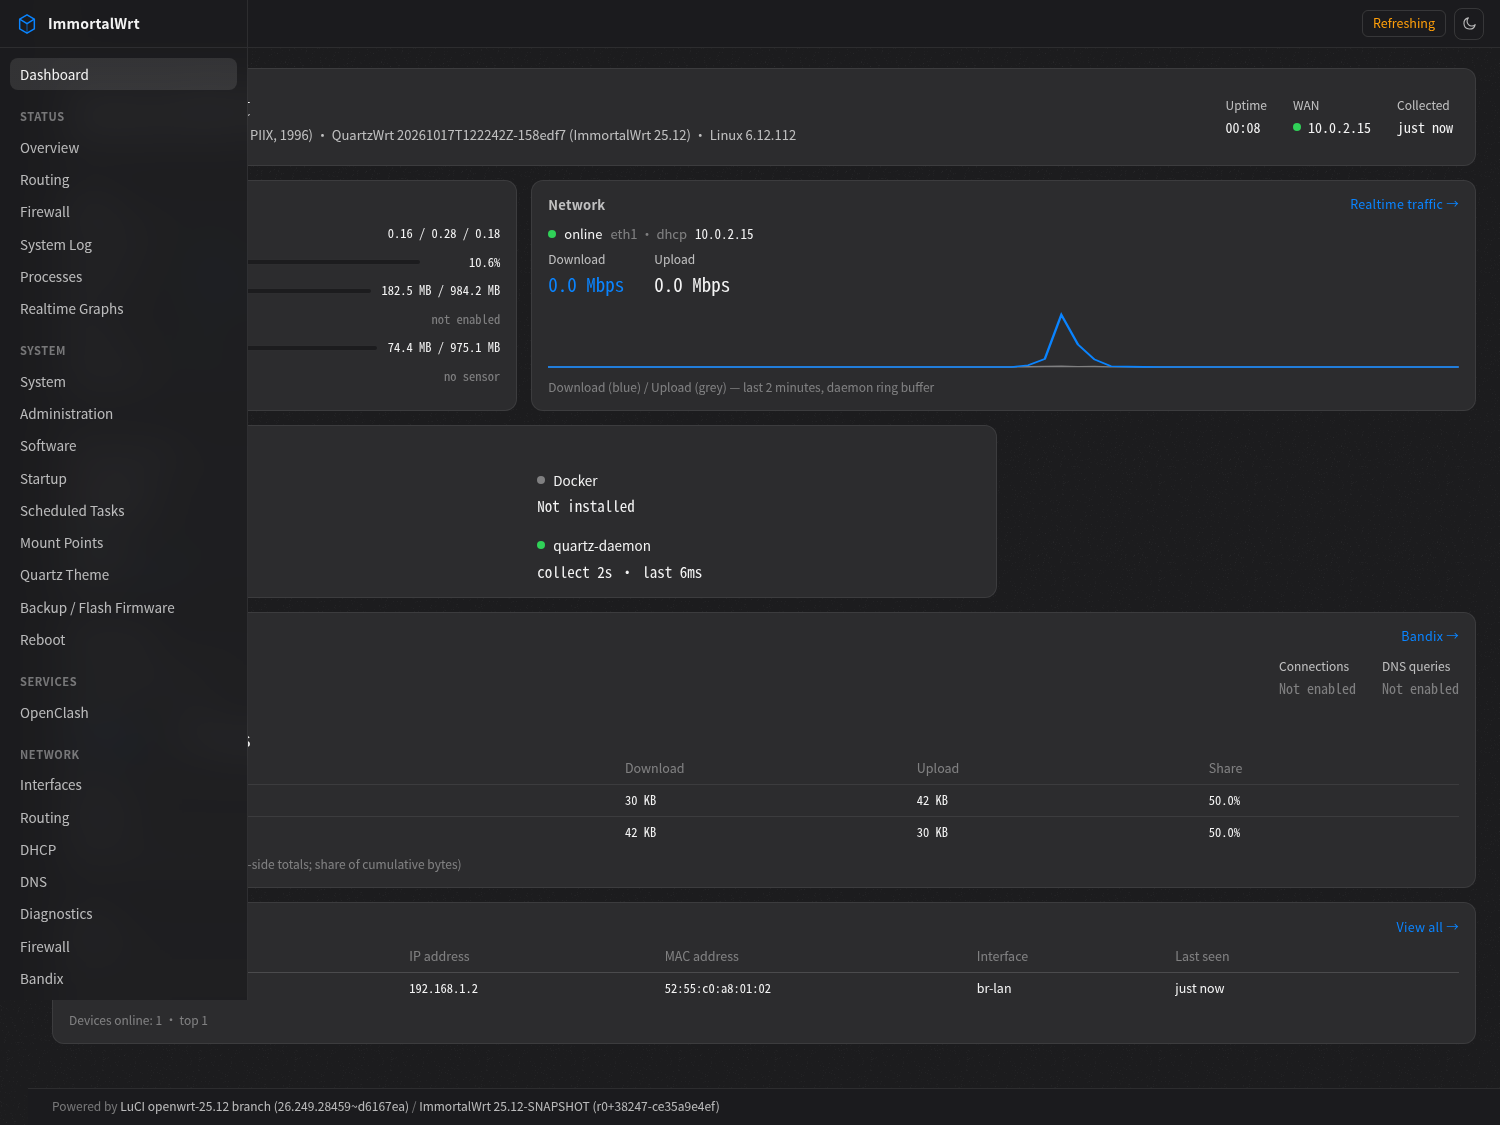
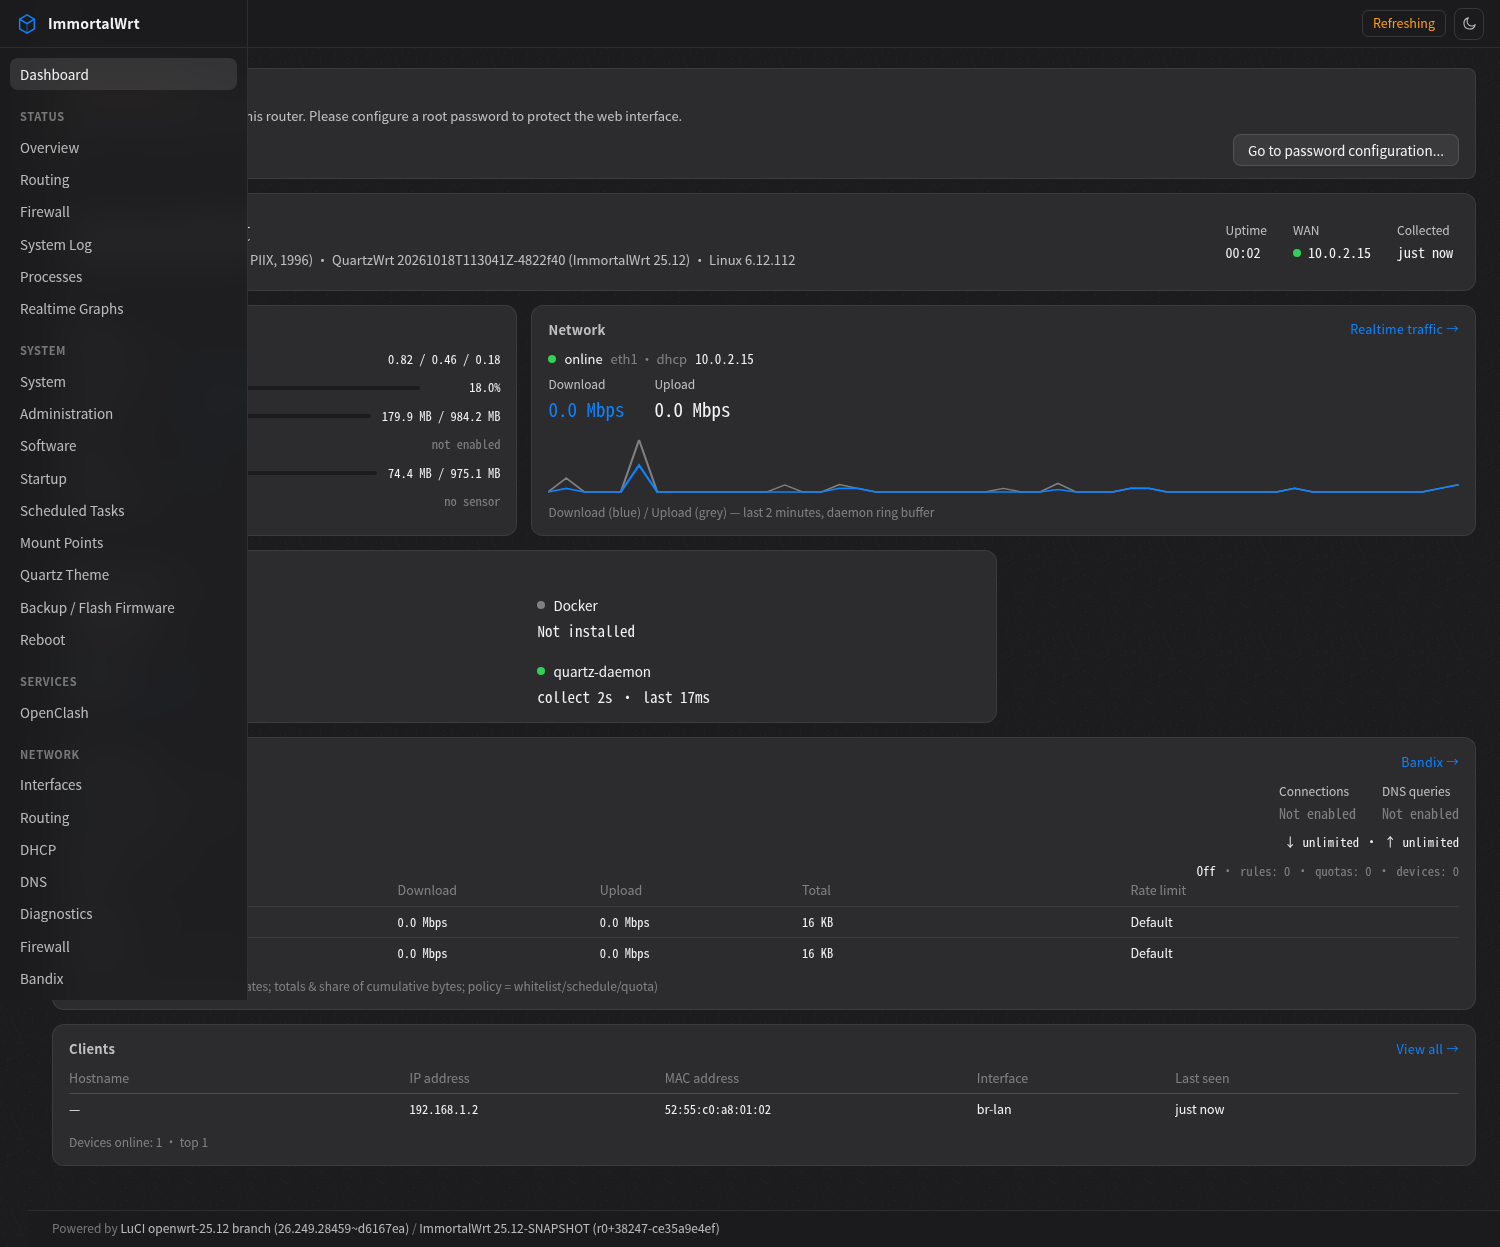
限速策略轮：契约校验器扩展（limits/top 新字段）+ VM 验收 11/11 证据（daemon r3，含开销重测 0.27%/3.73%）

diff --git a/utils/quartz-daemon/dev/contract-check.py b/utils/quartz-daemon/dev/contract-check.py
@@ -192,6 +192,20 @@ def main() -> int:
                     err(f"bandix.{k}: not non-negative int")
             if is_int(bx.get("devices")) and is_int(bx.get("online")) and bx["online"] > bx["devices"]:
                 err(f"bandix.online {bx['online']} > devices {bx['devices']}")
+            lm = bx.get("limits")
+            if lm is not None:
+                if not isinstance(lm, dict):
+                    err("bandix.limits: not object")
+                else:
+                    for k in ("default_rx_bps", "default_tx_bps"):
+                        if not is_int(lm.get(k)) or lm.get(k, -1) < 0:
+                            err(f"bandix.limits.{k}: not non-negative int")
+                    if not isinstance(lm.get("whitelist_enabled"), bool):
+                        err("bandix.limits.whitelist_enabled: not bool")
+                    for k in ("whitelist_count", "schedule_count", "quota_count"):
+                        v = lm.get(k)
+                        if v is not None and (not is_int(v) or v < 0):
+                            err(f"bandix.limits.{k}: not non-negative int/absent")
             w = bx.get("wan")
             if w is not None:
                 if not isinstance(w, dict):
@@ -221,6 +235,15 @@ def main() -> int:
                         pc = it.get("pct")
                         if not is_num(pc) or not (0 <= pc <= 100):
                             err(f"bandix.top[{i}].pct: not in 0..100 ({pc!r})")
+                        for k in ("rx_r", "tx_r"):
+                            if not is_int(it.get(k)) or it.get(k, -1) < 0:
+                                err(f"bandix.top[{i}].{k}: not non-negative int")
+                        if it.get("wl") is not None and not isinstance(it.get("wl"), bool):
+                            err(f"bandix.top[{i}].wl: not bool/absent")
+                        if it.get("sch") is not None and (not is_int(it.get("sch")) or it["sch"] < 0):
+                            err(f"bandix.top[{i}].sch: not non-negative int/absent")
+                        if it.get("q") is not None and not isinstance(it.get("q"), bool):
+                            err(f"bandix.top[{i}].q: not bool/absent")
                         cur = (it.get("rx_b") or 0) + (it.get("tx_b") or 0)
                         if prev is not None and cur > prev:
                             err(f"bandix.top[{i}]: not sorted by cumulative bytes desc")
